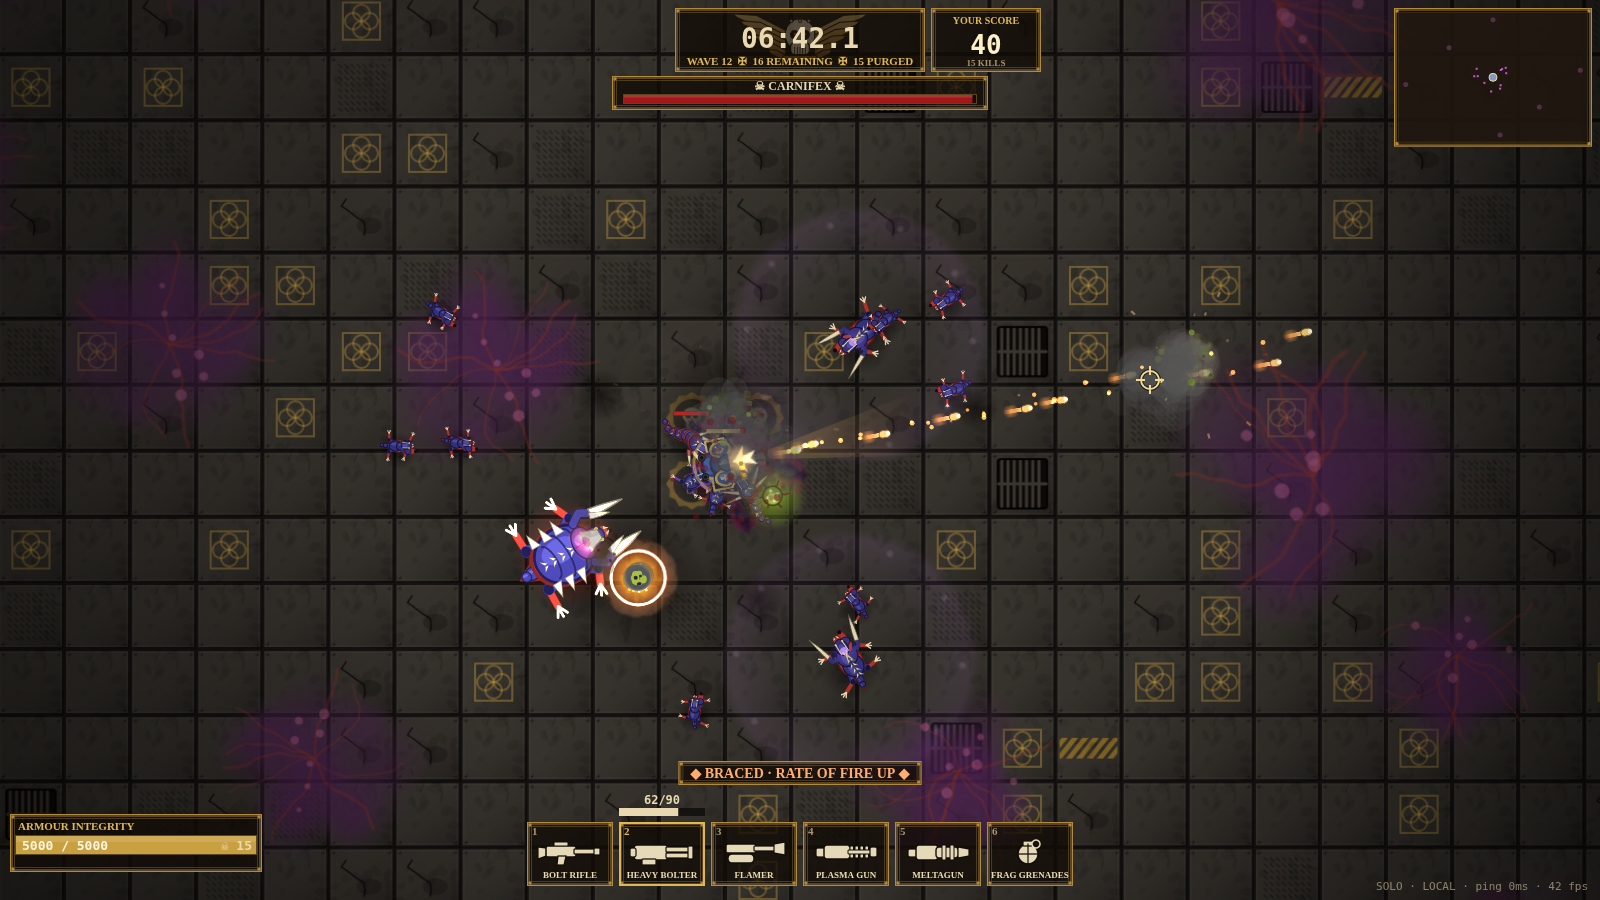
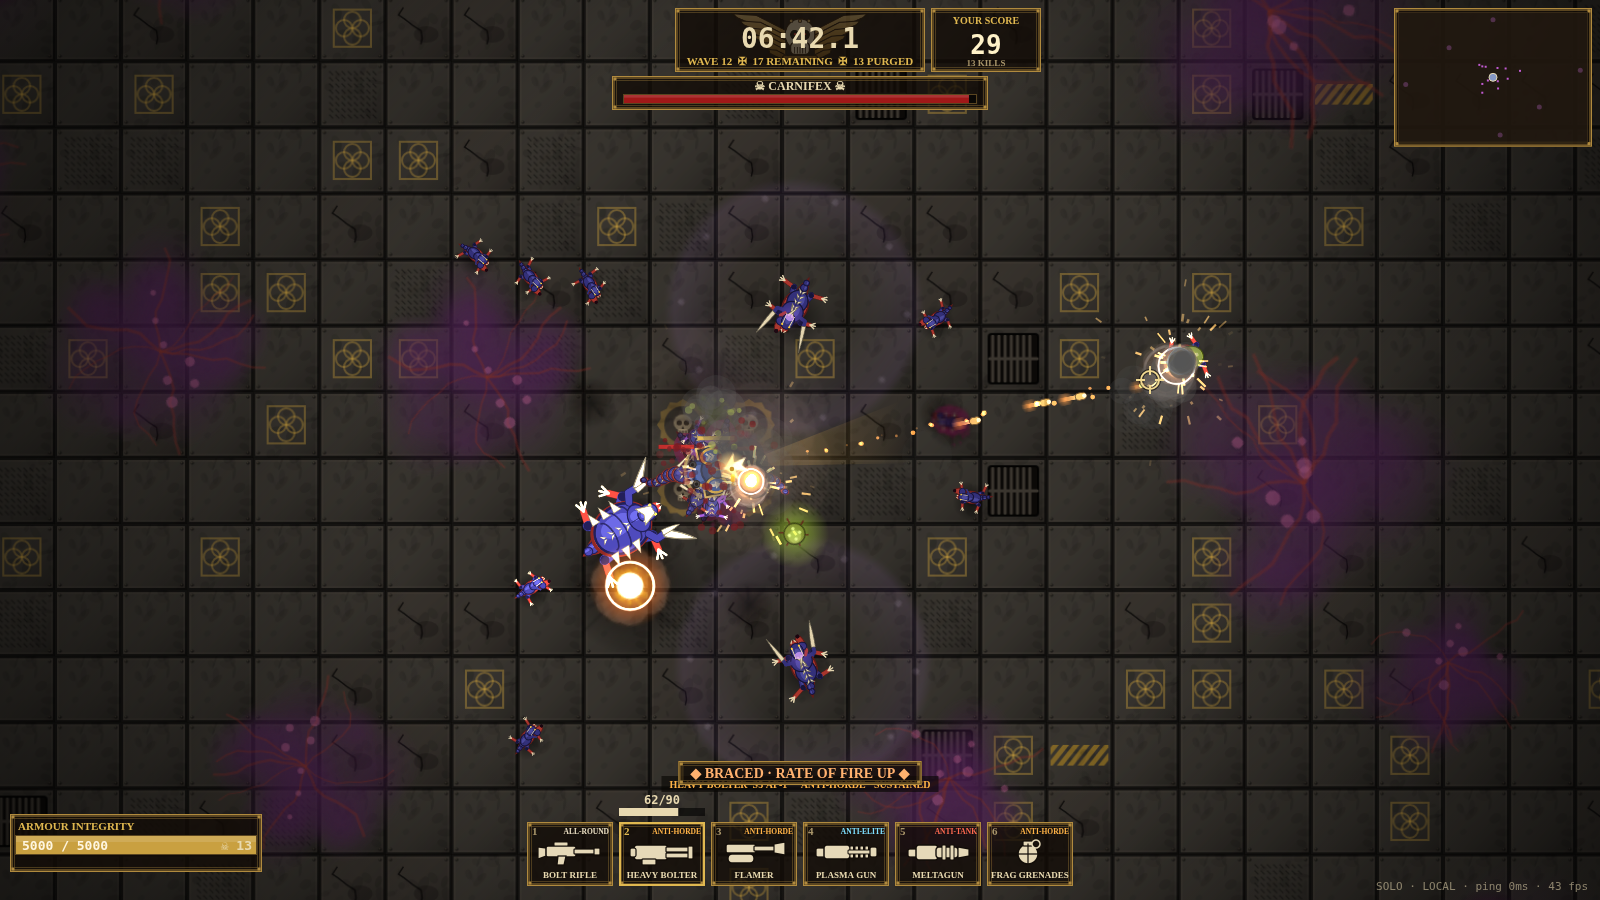
review: v0.5 shots (weapon role HUD desktop/touch, armour bounce) + in-client firing slow-down check

diff --git a/scripts/v05-shots.ts b/scripts/v05-shots.ts
@@ -1,0 +1,164 @@
+/**
+ * v0.5 review screenshots into docs/review/ (needs `npm run dev`; always `?firestore=0`):
+ *   weapon-roles-hud.png (+ -crop): desktop weapon bar with role tags, the active weapon's
+ *     S/AP · roles tooltip and the pickup notice with roles;
+ *   armour-bounce.png: bolt rifle vs Carnifex (2+ save): ricochet sparks only, no enemy markers;
+ *   weapon-roles-hud-touch.png: the touch weapon column with role tags (iPhone 14 landscape).
+ * Also measures the firing slow-down in the real client (marine distance walked with and
+ * without the trigger held).
+ * Usage: npx tsx scripts/v05-shots.ts [clientUrl]
+ */
+import { mkdirSync } from 'node:fs';
+import path from 'node:path';
+import { fileURLToPath } from 'node:url';
+import puppeteer, { KnownDevices, type Page } from 'puppeteer-core';
+
+const root = path.resolve(path.dirname(fileURLToPath(import.meta.url)), '..');
+const OUT = path.join(root, 'docs', 'review');
+mkdirSync(OUT, { recursive: true });
+const CLIENT = (process.argv[2] ?? 'http://localhost:5173/').replace(/\/?$/, '/');
+const CHROME = process.env.CHROME_PATH ?? '/usr/bin/google-chrome';
+const sleep = (ms: number) => new Promise((r) => setTimeout(r, ms));
+const check = (ok: boolean, msg: string) => {
+  console.log(`${ok ? '✓' : '✗'} ${msg}`);
+  if (!ok) process.exitCode = 1;
+};
+const errors: string[] = [];
+const browser = await puppeteer.launch({
+  executablePath: CHROME,
+  headless: true,
+  args: ['--no-sandbox', '--autoplay-policy=no-user-gesture-required', '--use-gl=swiftshader'],
+});
+
+async function demo(page: Page): Promise<void> {
+  await page.evaluateOnNewDocument('globalThis.__name = (f) => f');
+  page.on('pageerror', (e) => errors.push((e as Error).message));
+  await page.goto(`${CLIENT}?firestore=0&demo=hive&name=Filip`, { waitUntil: 'load' });
+  await page.waitForFunction(() => (window as any).__sms?.conn?.host?.world?.enemies?.length > 10, {
+    timeout: 20000,
+  });
+  await page.evaluate(() => {
+    const w = (window as any).__sms.conn.host.world;
+    w.players[0].invuln = 1e6;
+  });
+}
+
+/** Freeze every Tyranid in place (or park them far away) so a shot is readable. */
+const holdEnemies = (page: Page, mode: 'away' | 'carnifex') =>
+  page.evaluate((mode) => {
+    const w = (window as any).__sms.conn.host.world;
+    const p = w.players[0];
+    clearInterval((window as any).__hold);
+    (window as any).__hold = setInterval(() => {
+      let k = 0;
+      for (const e of w.enemies) {
+        if (e.dead) continue;
+        if (mode === 'carnifex' && e.type === 'carnifex') {
+          e.x = p.x + 260;
+          e.y = p.y - 10;
+        } else {
+          e.x = 200 + (k % 10) * 40;
+          e.y = 200 + Math.floor(k++ / 10) * 40;
+        }
+        e.vx = e.vy = 0;
+      }
+    }, 8);
+  }, mode);
+
+try {
+  // ---------------------------------------------------------------- desktop HUD
+  const page = await browser.newPage();
+  await page.setViewport({ width: 1600, height: 900, deviceScaleFactor: 1 });
+  await demo(page);
+  await holdEnemies(page, 'away');
+  await page.keyboard.press('Digit5');
+  await sleep(300);
+  await page.evaluate(() => {
+    const w = (window as any).__sms.conn.host.world;
+    const p = w.players[0];
+    w.pickups.push({
+      id: w.nextId++,
+      kind: 'weapon',
+      weapon: 'meltagun',
+      x: p.x,
+      y: p.y,
+      life: 20,
+    });
+  });
+  await sleep(700);
+  await page.screenshot({ path: path.join(OUT, 'weapon-roles-hud.png') });
+  await page.screenshot({
+    path: path.join(OUT, 'weapon-roles-hud-crop.png'),
+    clip: { x: 300, y: 640, width: 1000, height: 260 },
+  });
+  const cur = await page.evaluate(() => (window as any).__sms.conn.host.world.players[0].current);
+  check(cur === 'meltagun', `desktop HUD with role tags, melta selected (weapon-roles-hud.png)`);
+
+  // ---------------------------------------------------------------- firing slow-down
+  await page.keyboard.press('Digit1');
+  await sleep(200);
+  const walk = async (fire: boolean) => {
+    await page.evaluate(() => {
+      const p = (window as any).__sms.conn.host.world.players[0];
+      p.x = 1200;
+      p.y = 1100;
+    });
+    await page.mouse.move(300, 450);
+    if (fire) await page.mouse.down();
+    await sleep(250);
+    const x0 = await page.evaluate(() => (window as any).__sms.conn.host.world.players[0].x);
+    await page.keyboard.down('KeyD');
+    await sleep(1000);
+    await page.keyboard.up('KeyD');
+    const x1 = await page.evaluate(() => (window as any).__sms.conn.host.world.players[0].x);
+    if (fire) await page.mouse.up();
+    await sleep(500);
+    return x1 - x0;
+  };
+  const free = await walk(false);
+  const firing = await walk(true);
+  check(
+    firing / free > 0.7 && firing / free < 0.9,
+    `bolt rifle: walked ${free.toFixed(0)} px/s idle vs ${firing.toFixed(0)} px/s firing (×${(firing / free).toFixed(2)}, fireMoveMul 0.8)`,
+  );
+
+  // ---------------------------------------------------------------- armour bounce
+  await holdEnemies(page, 'carnifex');
+  const hp0 = await page.evaluate(
+    () => (window as any).__sms.conn.host.world.enemies.find((e: any) => e.type === 'carnifex')?.hp,
+  );
+  const p = await page.evaluate(() => {
+    const w = (window as any).__sms.conn.host.world;
+    return { x: w.players[0].x, y: w.players[0].y };
+  });
+  void p;
+  await page.mouse.move(1100, 445);
+  await page.mouse.down();
+  await sleep(1300);
+  await page.screenshot({ path: path.join(OUT, 'armour-bounce.png') });
+  await sleep(700);
+  await page.mouse.up();
+  const hp1 = await page.evaluate(
+    () => (window as any).__sms.conn.host.world.enemies.find((e: any) => e.type === 'carnifex')?.hp,
+  );
+  check(
+    hp1 !== undefined && hp0 - hp1 < hp0 * 0.08,
+    `bolt rifle vs Carnifex for 2 s: ${(hp0 - hp1).toFixed(0)} / ${hp0.toFixed(0)} HP (armour-bounce.png)`,
+  );
+  await page.close();
+
+  // ---------------------------------------------------------------- touch HUD
+  const ctx = await browser.createBrowserContext();
+  const tp = await ctx.newPage();
+  await tp.emulate(KnownDevices['iPhone 14 landscape']);
+  await demo(tp);
+  await holdEnemies(tp, 'away');
+  await sleep(800);
+  await tp.screenshot({ path: path.join(OUT, 'weapon-roles-hud-touch.png') });
+  const touch = await tp.evaluate(() => document.body.classList.contains('touch-mode'));
+  check(touch, 'touch HUD with role tags (weapon-roles-hud-touch.png)');
+  await ctx.close();
+} finally {
+  await browser.close();
+}
+check(errors.length === 0, `no page errors${errors.length ? `: ${errors.join(' | ')}` : ''}`);
